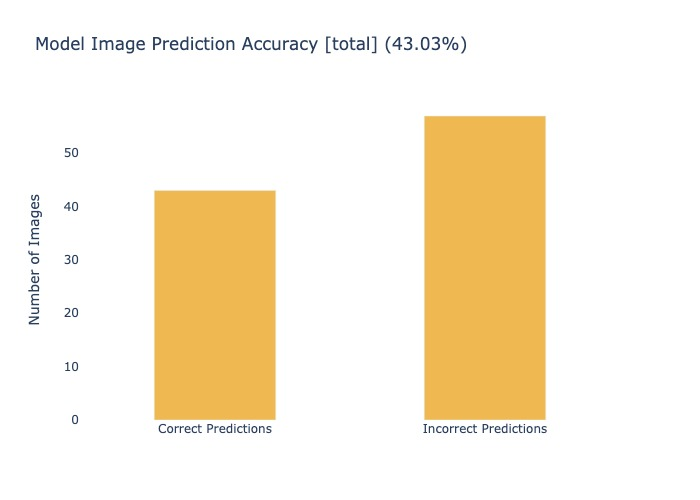
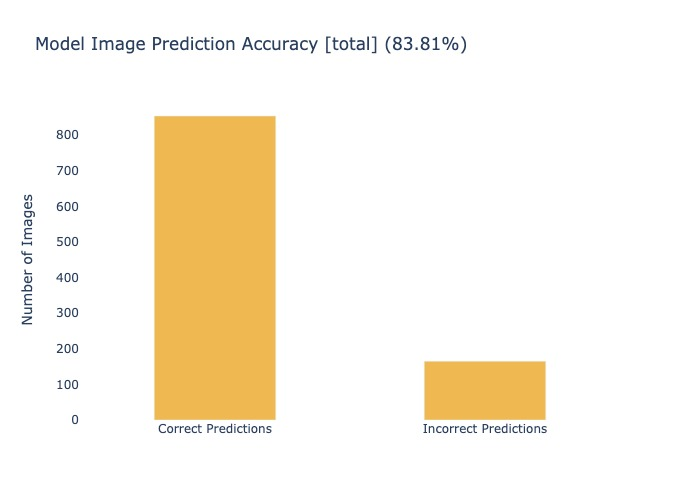
test

diff --git a/vizualization_tools/model accuracy_validation.py b/vizualization_tools/model accuracy_validation.py
@@ -2,7 +2,7 @@ import plotly.express as px
 import plotly.io as pio
 
 # Number of total images
-total_images = 100
+total_images = 1019
 # total_images = 3555
 
 # Number of correctly predicted images
@@ -11,7 +11,7 @@ total_images = 100
 # correct_predictions = 3100 + 2500 + 2100
 # correct_predictions = 305
 # correct_predictions = 285
-correct_predictions = 43.03
+correct_predictions = 854
 
 # Calculate the accuracy percentage
 accuracy_percentage = (correct_predictions / total_images) * 100

diff --git a/service/model/image_view_point_elevation_model_prediction.py b/service/model/image_view_point_elevation_model_prediction.py
@@ -77,6 +77,7 @@ class ViewPointElevationPrediction:
             base_model = ResNet50(weights='imagenet', include_top=False, input_shape=(IMG_WIDTH, IMG_HEIGHT, 3))
             base_model.trainable = False
 
+
             model = Sequential([
                 base_model,
                 Flatten(),
